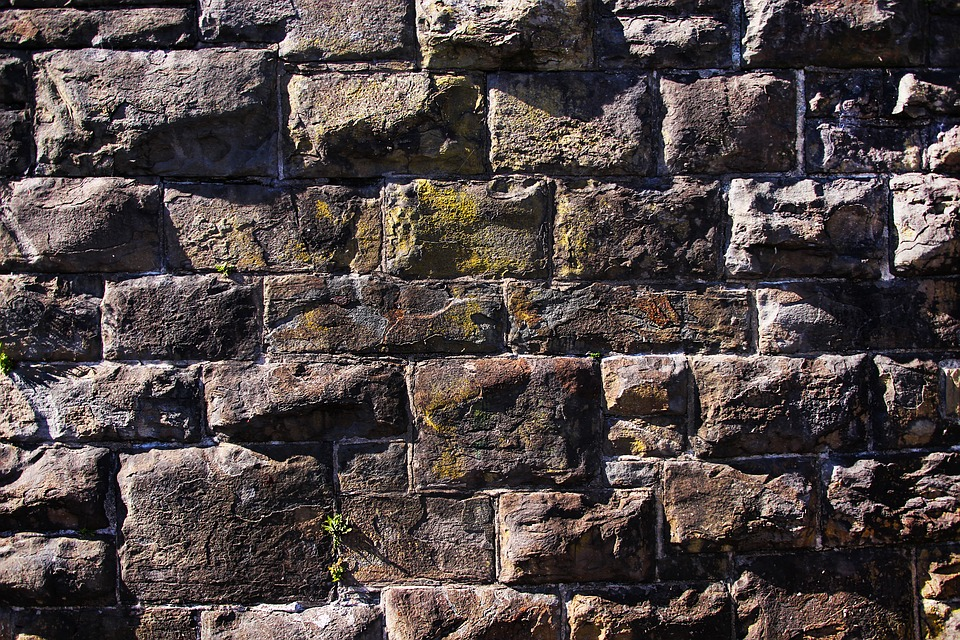
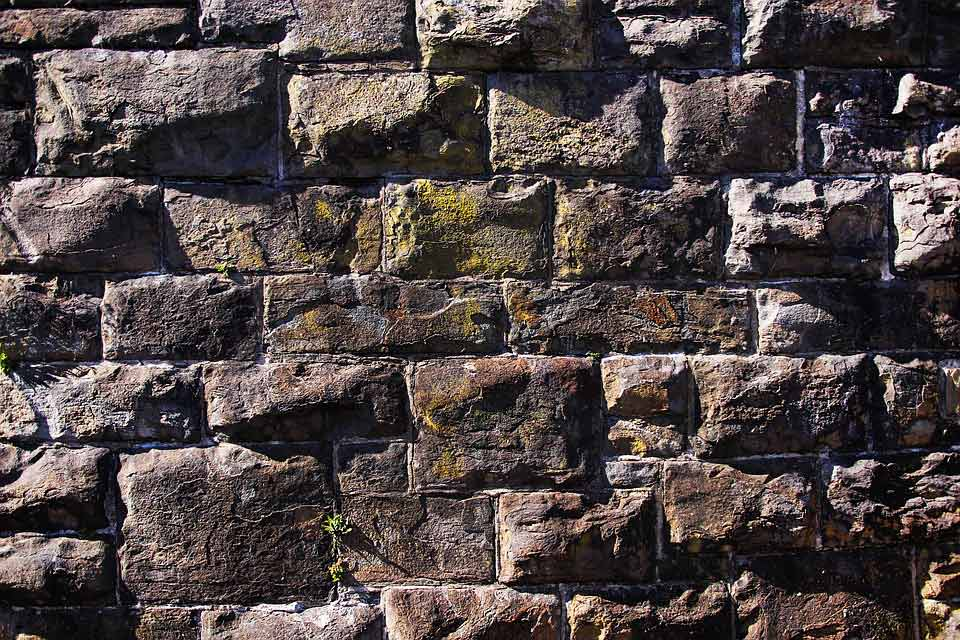
komprimerat bilder

diff --git a/css/style.css b/css/style.css
@@ -38,7 +38,7 @@ body, .fixed-bg {
 }
 body {background-image: url("../img/the_wall.jpg");}
 .fixed-bg-1 {
-  background-image: url("../img/DSCF1807.JPG");
+  background-image: url("../img/jumbotron.jpg");
   justify-content: center;
   flex-direction: column;
 }
